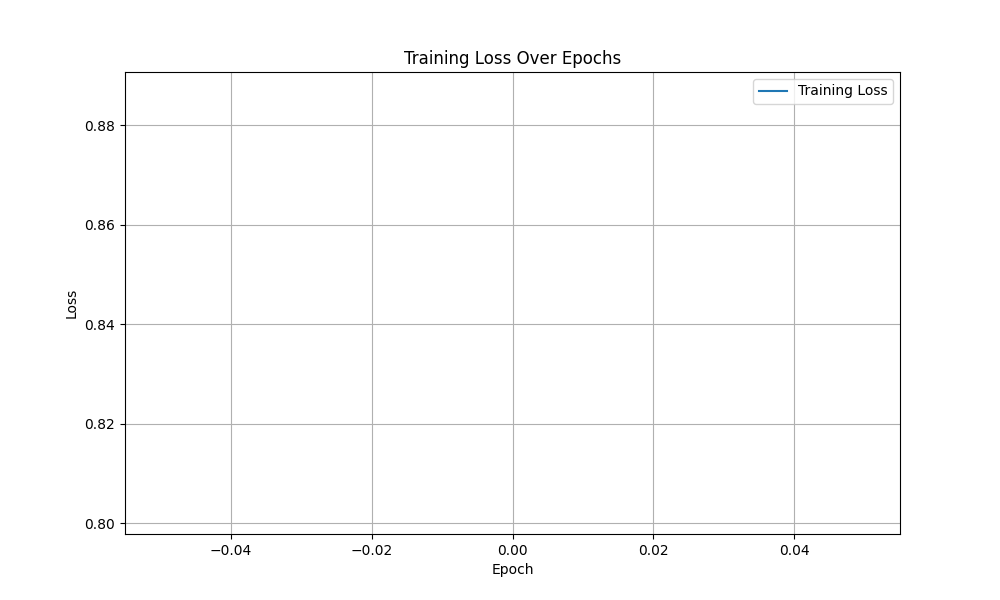
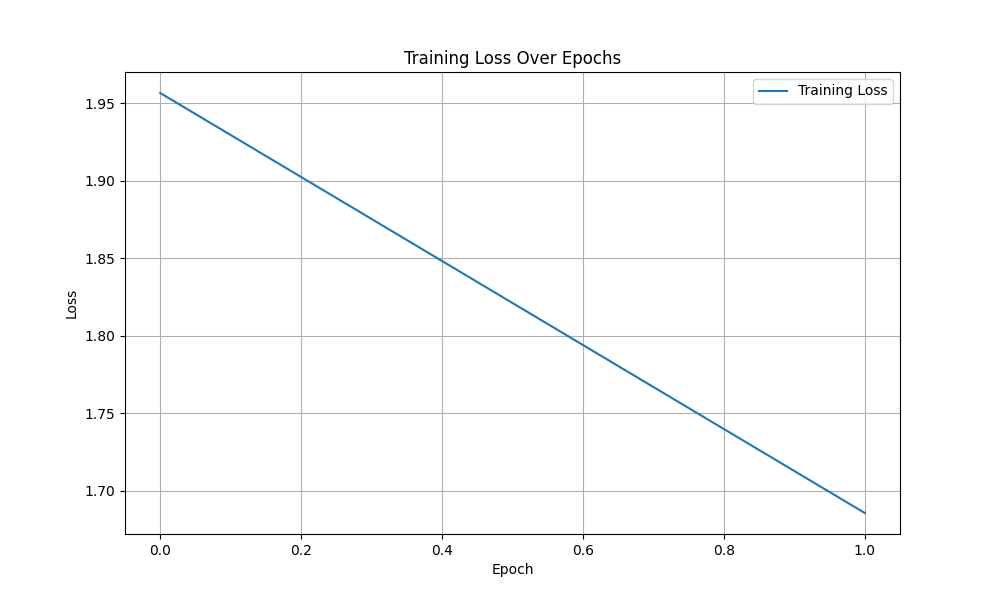
versione running

diff --git a/main.py b/main.py
@@ -135,10 +135,9 @@ def train(model, criterion, optimizer, epoch, log_interval, train_loader, device
 
         # Log training stats
         if batch_idx % log_interval == 0:
-            print(
-                f"Train Epoch: {epoch} [{batch_idx * len(data)}/{len(train_loader.dataset)} "
-                f"({100. * batch_idx / len(train_loader):.0f}%)]\t"
-                f"Total Loss: {loss.item():.6f}, Class Loss: {class_loss.item():.6f}, BB Loss: {bb_loss.item():.6f}"
+            tqdm.write(
+                f"[Epoch {epoch}] Batch {batch_idx}/{len(train_loader)} "
+                f"- Total Loss: {loss.item():.4f} | Class Loss: {class_loss.item():.4f} | BB Loss: {bb_loss.item():.4f}"
             )
 
         # Update progress bar and record loss
@@ -146,6 +145,7 @@ def train(model, criterion, optimizer, epoch, log_interval, train_loader, device
         losses.append(loss.item())
 
     pbar.close()
+    print(f"[Epoch {epoch}] Average Training Loss: {np.mean(losses):.4f}")
     return losses
 
 
@@ -220,7 +220,7 @@ def evaluate(model, criterion, loader, device, iou_threshold, negative_class_ind
     pred_durations = []
     offset_errors = []
     relative_errors = []
-    pbar = tqdm(total=len(loader), desc="Testing", leave=False)
+    pbar = tqdm(total=len(loader), desc="Evaluating", leave=False)
 
     iou_list = []
 
@@ -359,7 +359,7 @@ def initialize_model(architecture, num_classes, device):
         model = torchvision.models.mobilenet_v2(weights=torchvision.models.MobileNet_V2_Weights.IMAGENET1K_V1)
 
         # Modify the first convolutional layer to accept 1 input channel
-        model.features[0][0] = nn.Conv2d(1, 32, kernel_size=(3, 3), stride=(2, 2), padding=(1, 1), bias=False)
+        model.features[0][0] = nn.Conv2d(1, 32, kernel_size=(3, 3), stride=(2, 2), padding=(1, 1), groups=1, bias=False)
 
         # Remove the original classifier
         num_features = model.last_channel
@@ -430,7 +430,7 @@ class CombinedLoss(nn.Module):
 
 
         total_loss= class_loss + self.lambda_coord * bb_loss
-        return total_loss,class_loss,bb_loss
+        return total_loss,class_loss,self.lambda_coord * bb_loss
     
 class GlobalMSELoss(nn.Module):
     def __init__(self, classes_list, lambda_coord=0.5):
@@ -518,7 +518,7 @@ def main():
     test_set = myDataset(root_folder, "test")
     validation_set = myDataset(root_folder, "validation")
     # Dataloaders
-    batch_size = 128
+    batch_size = 64
     num_workers = 8 # CPU architecture
     train_loader, test_loader, validation_loader = prepare_dataloaders(
         train_set, test_set, validation_set, batch_size, device, num_workers=num_workers
@@ -526,7 +526,7 @@ def main():
 
     # Model initialization
     num_classes = len(train_set.classes_list)
-    architecture = "MobileNet"  # Choose between "ResNet" and "MobileNet"
+    architecture = "ResNet"  # Choose between "ResNet" and "MobileNet"
     model = initialize_model(architecture, num_classes, device)
     print(model)
     summary(model, (1, 224, 224))
@@ -574,11 +574,11 @@ def main():
     class_counts = torch.tensor(class_counts.values, dtype=torch.float32)
     class_weights = (1.0 / class_counts).to(device)
     #criterion = GlobalMSELoss(classes_list=class_order, lambda_coord=1)
-    lambda_coord = 50
+    lambda_coord = 25
     criterion = CombinedLoss(classes_list=class_order, class_weights=class_weights, lambda_coord=lambda_coord)
 
     # Training and evaluation
-    log_interval = train_set.__len__()//(batch_size*100*num_workers) #stamp every 1%
+    log_interval = len(train_loader)//100 #stamp every 1%
     losses = []
 
     print(
@@ -604,11 +604,11 @@ def main():
             losses.append(float(np.mean(train_losses)))
 
             # Validation on that epoch
-            validation_loss, validation_accuracy, validation_report = evaluate(
+            validation_loss = evaluate(
                 model, criterion, validation_loader, device, iou_threshold=0.5,
                 negative_class_index=train_set.classes_dict["Nonfiller"]
             )
-            print(f"Validation set: Loss: {validation_loss:.4f}, Accuracy: {validation_accuracy:.2f}%")
+            print(f"Validation set: Loss: {validation_loss:.4f}")
             # Saving the best model
             if validation_loss < best_validation_loss:
                 best_validation_loss = validation_loss
@@ -631,17 +631,17 @@ def main():
             plt.title("Training Loss Over Epochs")
             plt.legend()
             plt.grid(True)
-            plt.show(block=False)
+            #plt.show(block=False)
             plt.savefig("training_loss.png")
     
     
         pbar.update(1)
     # Final evaluation on the test set
-    test_loss, test_accuracy, test_report = evaluate(
+    test_loss = evaluate(
         model, criterion, test_loader, device, iou_threshold=0.5,
         negative_class_index=train_set.classes_dict["Nonfiller"]
     )
-    print(f"Test set: Loss: {test_loss:.4f}, Accuracy: {test_accuracy:.2f}%")
+    print(f"Test set: Loss: {test_loss:.4f}")
 
 
 
